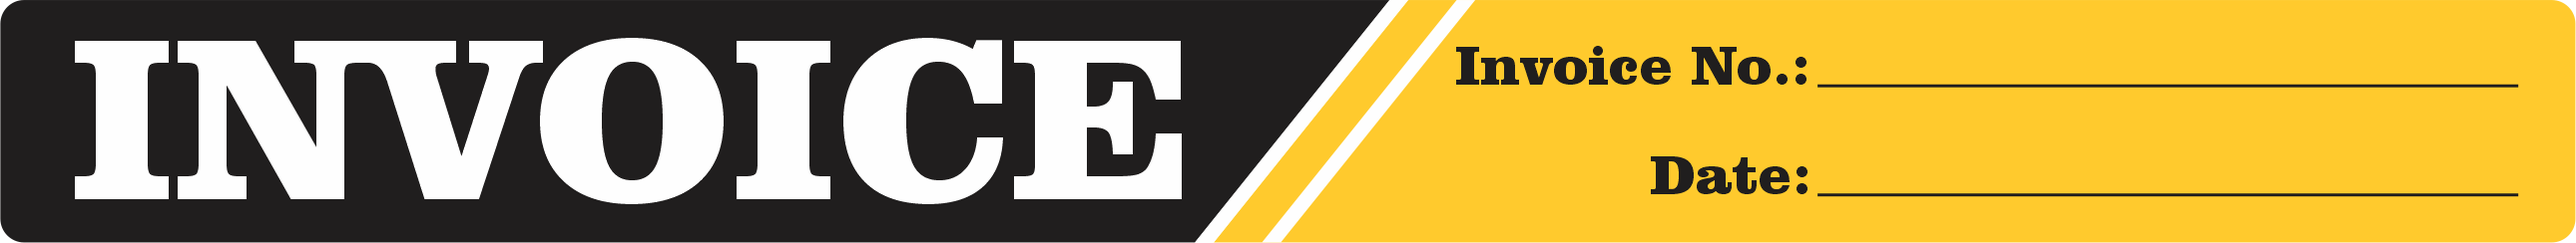
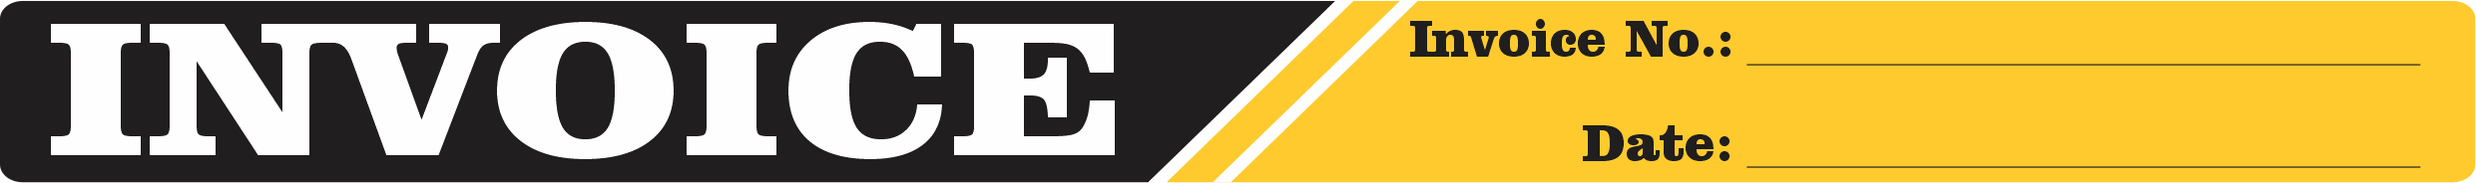
feat: implement invoice creation form and PDF generation service

diff --git a/lib/features/invoice/services/pdf_service.dart b/lib/features/invoice/services/pdf_service.dart
@@ -158,7 +158,7 @@ class PdfService {
               headerImg,
               width: pageWidth,
               height: pageWidth /
-                  3.9174, // Aspect ratio of updated full_header.png (2609x666)
+                  5.9174, // Aspect ratio of updated full_header.png (2609x666)
               fit: pw.BoxFit.fill,
             ),
 
@@ -266,7 +266,7 @@ class PdfService {
     double width,
   ) {
     // invoice.png aspect ratio: 2581 / 244 = 10.5779
-    final height = width / 10.5779;
+    final height = width / 13.5779;
 
     return pw.SizedBox(
       width: width,
@@ -281,7 +281,7 @@ class PdfService {
           // Invoice No overlay (line y: 86/244 = 0.352, x: 1821 to 2522 in invoice.png)
           pw.Positioned(
             left: width * 0.710,
-            top: height * 0.15,
+            top: height * 0.10,
             child: pw.SizedBox(
               width: width * 0.265,
               child: pw.Text(
@@ -298,7 +298,7 @@ class PdfService {
           // Date overlay (line y: 195/244 = 0.799, x: 1821 to 2522 in invoice.png)
           pw.Positioned(
             left: width * 0.710,
-            top: height * 0.59,
+            top: height * 0.65,
             child: pw.SizedBox(
               width: width * 0.265,
               child: pw.Text(
@@ -325,7 +325,7 @@ class PdfService {
     double width,
   ) {
     // customer_details.png aspect ratio: 2590 / 331 = 7.8248
-    final height = width / 7.8248;
+    final height = width / 9.8248;
 
     return pw.SizedBox(
       width: width,
@@ -339,8 +339,8 @@ class PdfService {
           ),
           // Customer Name (line 1 left, y: 98/331 = 0.296, x: 515 to 1558)
           pw.Positioned(
-            left: width * 0.202,
-            top: height * 0.13,
+            left: width * 0.070,
+            top: height * 0.37,
             child: pw.SizedBox(
               width: width * 0.395,
               child: pw.Text(
@@ -356,8 +356,8 @@ class PdfService {
           ),
           // Bill To (line 1 right, y: 98/331 = 0.296, x: 1829 to 2538)
           pw.Positioned(
-            left: width * 0.710,
-            top: height * 0.13,
+            left: width * 0.570,
+            top: height * 0.37,
             child: pw.SizedBox(
               width: width * 0.265,
               child: pw.Text(
@@ -373,8 +373,8 @@ class PdfService {
           ),
           // Customer Address (line 2, y: 190/331 = 0.574, x: 515 to 2538)
           pw.Positioned(
-            left: width * 0.202,
-            top: height * 0.41,
+            left: width * 0.095,
+            top: height * 0.73,
             child: pw.SizedBox(
               width: width * 0.770,
               child: pw.Text(
@@ -390,8 +390,8 @@ class PdfService {
           ),
           // Customer Phone (line 3, y: 283/331 = 0.855, x: 515 to 2538)
           pw.Positioned(
-            left: width * 0.202,
-            top: height * 0.69,
+            left: width * 0.570,
+            top: height * 0.73,
             child: pw.SizedBox(
               width: width * 0.770,
               child: pw.Text(
@@ -418,7 +418,7 @@ class PdfService {
     double width,
   ) {
     // generator_details.png aspect ratio: 2590 / 387 = 6.6925
-    final height = width / 6.6925;
+    final height = width / 9.6925;
 
     String nextServiceDateStr = '';
     if (invoice.nextServiceDate != null) {
@@ -441,8 +441,8 @@ class PdfService {
           ),
           // Generator Model / Make (line y: 305/387 = 0.788, x: 84 to 650)
           pw.Positioned(
-            left: width * 0.034,
-            top: height * 0.64,
+            left: width * 0.030,
+            top: height * 0.70,
             child: pw.SizedBox(
               width: width * 0.216,
               child: pw.Text(
@@ -458,8 +458,8 @@ class PdfService {
           ),
           // Engine Running Hours (line y: 305/387 = 0.788, x: 1099 to 1695)
           pw.Positioned(
-            left: width * 0.426,
-            top: height * 0.64,
+            left: width * 0.422,
+            top: height * 0.70,
             child: pw.SizedBox(
               width: width * 0.228,
               child: pw.Text(
@@ -475,8 +475,8 @@ class PdfService {
           ),
           // Next Service Date (unified single line: y: 305/387 = 0.788, x: 2059 to 2507)
           pw.Positioned(
-            left: width * 0.795,
-            top: height * 0.64,
+            left: width * 0.755,
+            top: height * 0.70,
             child: pw.SizedBox(
               width: width * 0.173,
               child: pw.Center(
@@ -500,13 +500,13 @@ class PdfService {
   // ── 5. Items Table ────────────────────────────────────────────────────────
 
   static pw.Widget _buildItemsTable(Invoice invoice, double width) {
-    const minRows = 8;
+    const minRows = 10;
     const col1Width = 330.0;
     const col2Width = 60.0;
     const col3Width = 90.0;
     const col4Width = 94.0; // sum = 574.0
 
-    // The compact totals panel leaves space for eight standard item rows.
+    // The compact totals panel leaves space for ten standard item rows.
     final rowHeight = invoice.items.length <= minRows
         ? 22.0
         : (176.0 / invoice.items.length).clamp(14.0, 22.0);
@@ -619,7 +619,7 @@ class PdfService {
       decoration: pw.BoxDecoration(
         border: showBottomBorder
             ? const pw.Border(
-                bottom: pw.BorderSide(color: _yellow, width: 0.8),
+                bottom: pw.BorderSide(color: _yellow, width: 0.6),
               )
             : null,
       ),

diff --git a/lib/features/invoice/screens/invoice_form_screen.dart b/lib/features/invoice/screens/invoice_form_screen.dart
@@ -1296,7 +1296,7 @@ class _InvoiceFormScreenState extends ConsumerState<InvoiceFormScreen> {
               children: [
                 SizedBox(
                   width: 32,
-                  child: Text('NO',
+                  child: Text('',
                       style: TextStyle(
                           color: Colors.white,
                           fontWeight: FontWeight.bold,
@@ -1304,7 +1304,7 @@ class _InvoiceFormScreenState extends ConsumerState<InvoiceFormScreen> {
                       textAlign: TextAlign.center),
                 ),
                 Expanded(
-                  child: Text('DESCRIPTION OF GOODS / SERVICE',
+                  child: Text('DESCRIPTION OF GOODS / SERVICES',
                       style: TextStyle(
                           color: Colors.white,
                           fontWeight: FontWeight.bold,
@@ -1533,7 +1533,7 @@ class _InvoiceFormScreenState extends ConsumerState<InvoiceFormScreen> {
       crossAxisAlignment: CrossAxisAlignment.stretch,
       children: [
         // Section header
-        _sectionHeader('ITEMS / SERVICES'),
+        _sectionHeader('DESCRIPTION OF GOODS / SERVICES'),
         const SizedBox(height: 8),
 
         // Item cards

diff --git a/lib/features/invoice/controllers/invoice_controller.dart b/lib/features/invoice/controllers/invoice_controller.dart
@@ -42,7 +42,7 @@ final filteredInvoicesProvider = Provider<AsyncValue<List<Invoice>>>((ref) {
 class InvoiceFormNotifier extends StateNotifier<Invoice> {
   /// An invoice is intentionally limited to keep the form and printed layout
   /// clear and practical for users.
-  static const maxItems = 10;
+  static const maxItems = 20;
 
   final InvoiceRepository _repo;
   bool _isEditing = false;
